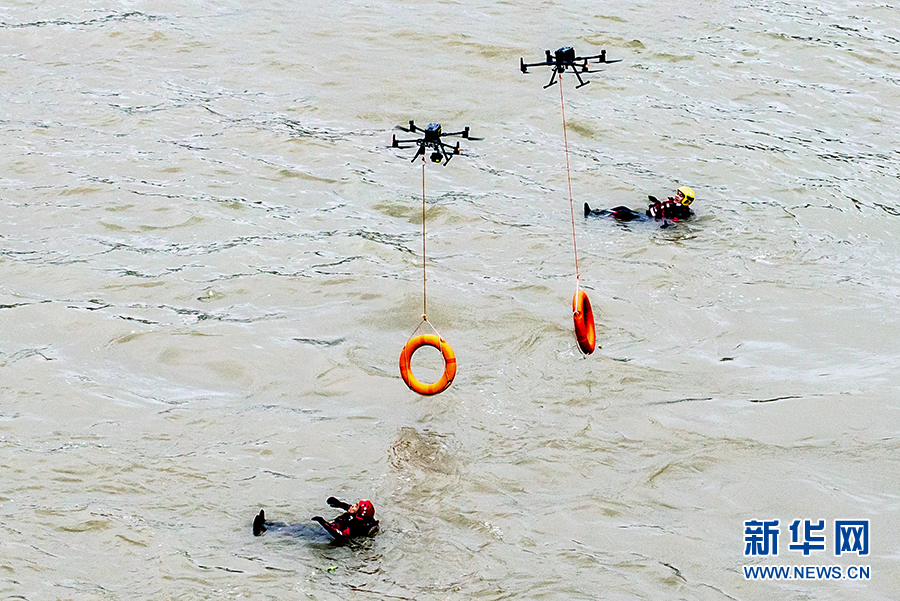
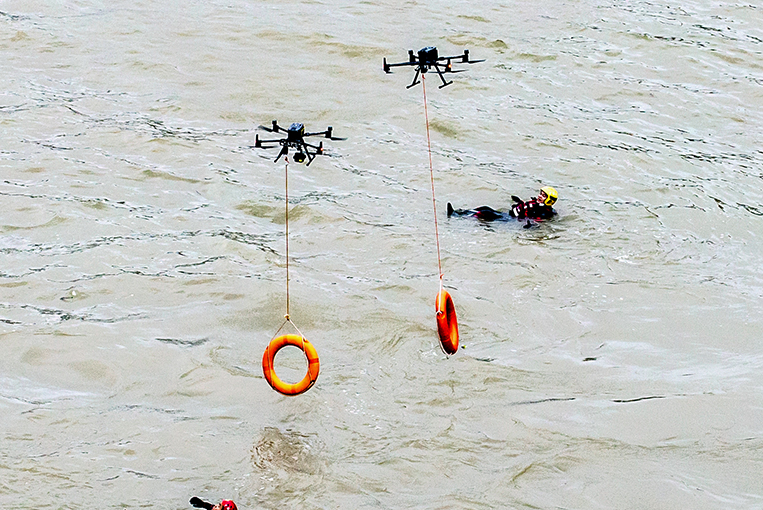
FIX | 针对预答辩的建议，对第一章和第五章进行了内容修改，适当减少了感知部分的内容，修改了未来展望的部分内容

diff --git a/body/graduate/content.tex b/body/graduate/content.tex
@@ -38,7 +38,7 @@
 
 在大尺度、复杂环境中，仅依靠单一机器人平台难以同时兼顾全局覆盖效率、局部操作能力与系统鲁棒性。空地协同系统通过将具备高视角与快速覆盖能力的 UAV 与具备高负载、可长时间驻留的 UGV 进行有机组合，使得“空地系统”在感知视角、运动能力与任务分工上形成互补，有望在灾后搜救、地下空间普查、工业园区巡检\cite{面向铁路巡检的低空无人机}等任务中显著提升作业效率与任务成功率\cite{collaborationsurvey,amigoni2017survey}。近年来，多机器人协同探索与地图构建方法不断涌现，多机同时覆盖未知区域、追踪动态目标或执行分布式监测任务已成为重要研究方向\cite{agexplore1,agexplore2,agmap1,agmap2,无人机环境覆盖与探索规划方法综述}，如\autoref{fig:explore_task}所示，多机器人系统能够在未知环境中协同完成环境探索和地图重建。
 
-实现复杂任务的前提在于可靠的状态估计与环境感知。空地系统中，常用传感器包括激光雷达、视觉相机、惯性测量单元（IMU）以及超宽带（Ultra-Wideband, UWB）\cite{UWB融合里程计}等，不同传感器在量测频率、精度、视场范围及安装载体的限制方面存在显著差异。\autoref{fig:loc_and_per}给出了典型传感器硬件示意图。高精度激光雷达可提供稠密三维结构信息，是构建环境几何地图的核心传感器\cite{zhang2014loam,xu2021fastlio,xu2022fastlio2}；视觉与视觉–惯性里程计在结构丰富场景中具备较好的定位精度与成本优势\cite{mourikis2007msckf,leutenegger2015okvis,qin2018vins,qin2019vinsfusion,campos2021orbslam3}；UWB 通过测距或时差观测可在 GPS 拒止环境中提供绝对尺度与弱全局约束\cite{uwbsurvey,queralta2020uwb,lin2023gnssuwb}。如何在异构多机器人系统中合理分配与融合多源传感信息，使其在不同平台间形成互补，是实现长期自主运行的关键问题。
+实现复杂任务的前提在于可靠的状态估计与环境感知。空地系统常用传感器包括激光雷达、视觉相机、IMU 及超宽带（Ultra-Wideband, UWB）\cite{UWB融合里程计}，但其量测频率、精度、视场与平台载荷约束差异显著，\autoref{fig:loc_and_per} 给出了典型硬件示意图：激光雷达可提供稠密三维结构信息，是构建几何地图的核心传感器\cite{zhang2014loam,xu2021fastlio,xu2022fastlio2}；视觉与视觉–惯性里程计在结构丰富场景中兼具精度与成本优势\cite{mourikis2007msckf,leutenegger2015okvis,qin2018vins,qin2019vinsfusion,campos2021orbslam3}；UWB 通过测距或时差观测在 GPS 拒止环境中提供绝对尺度与弱全局约束\cite{uwbsurvey,queralta2020uwb,lin2023gnssuwb}。在室内、地下或城市峡谷等 GPS 拒止/弱信号场景中，系统通常依赖激光雷达或视觉里程计构建局部地图，结合 IMU 等高频传感器进行状态估计，并通过回环检测与图优化维持长期一致性\cite{zhang2014loam,xu2021fastlio,xu2022fastlio2,shan2020liosam,kim2018scancontext,chang2022lamp2,cramariuc2022maplab2}；但当几何结构退化（如长走廊、空旷场地）、纹理不足或剧烈机动发生时，里程计易漂移甚至失效，而 UWB 的效果又高度依赖锚点布局与视线（Line-of-Sight, LoS）质量，非视距（Non-Line-of-Sight, NLoS）传播与多径效应会引入难以建模的系统误差\cite{uwbsurvey,zhao2022finding,delama2023uvio,jiang2024visionuwb}。因此，如何在异构多机器人系统中合理分配并融合多源信息，使不同平台间形成互补，是实现长期自主运行的关键问题。
 
 \begin{figure}[htbp]
     \centering
@@ -66,8 +66,6 @@
     \label{fig:loc_and_per}
 \end{figure}
 
-在实际应用中，多机器人系统往往工作在室内、地下或高遮挡的城市峡谷等 GPS 拒止或弱信号环境中，外部绝对定位信息不可用或质量不稳定。此时，系统通常依赖激光雷达或视觉里程计构建局部地图，结合 IMU 等高频传感器进行状态估计，并通过回环检测与图优化保持长期一致性\cite{zhang2014loam,xu2021fastlio,xu2022fastlio2,shan2020liosam,kim2018scancontext,chang2022lamp2,cramariuc2022maplab2}。然而，当环境几何结构退化（如长走廊、空旷场地）、视觉纹理不足或平台发生剧烈机动时，里程计易出现漂移甚至失效；UWB 虽能为系统提供一定测距约束，但其性能高度依赖锚点布局与视线（Line-of-Sight, LoS）质量，非视距（Non-Line-of-Sight, NLoS）传播和多径效应会引入难以建模的系统误差\cite{uwbsurvey,zhao2022finding,delama2023uvio,jiang2024visionuwb}。
-
 空地系统要在复杂未知环境中长期稳定运行，不仅需要具备精确、鲁棒的相对定位能力，还必须在任务执行过程中主动维护有利的观测几何关系，以提升 LoS 质量、抑制误差累积并保证队形结构的可观测性。现有方法多将定位与感知模块视为规划的“黑箱输入”，规划层仅采用基于距离或拓扑的简化连通模型描述机器人的协作关系，难以充分利用可见性、几何结构与传感覆盖等信息。如何在任务执行过程中将“感知-定位”与“协同规划”紧密耦合，使系统能够根据定位质量与可见性水平自适应调整协同策略，是实现空地系统安全、高效与持久运行的核心需求。
 
 \begin{figure}[htbp]
@@ -83,20 +81,13 @@
 
 针对多机器人系统的定位与协同规划问题，国内外已有大量研究工作。从整体上看，现有方法在传感器配置、信息融合架构及规划目标设计方面取得了显著进展，但普遍存在系统部署成本高、对预先标定与固定基础设施依赖强以及感知与规划之间耦合不足等问题。本节将分别从无人系统的定位与规划两个方面，对相关研究进展进行梳理与分析。
 
-\subsection{无人系统定位研究现状}
+\subsection{多机器人协同定位研究现状}
 
 在异构机器人系统中，依据平台载荷能力与任务需求配置不同传感器已成为普遍做法。空地协同场景下，轻载 UAV 通常配备视觉–惯性相机与 UWB 标签，实现机载感知与状态估计；UGV 或大型无人机则常搭载高线数激光雷达与计算平台，用于环境建图与全局状态估计\cite{zhang2014loam,xu2021fastlio,xu2022fastlio2,chang2022lamp2,cramariuc2022maplab2}。
 
-视觉或视觉–惯性里程计经历了从滤波式方法到优化式方法的发展。Mourikis 等人提出的 MSCKF\cite{mourikis2007msckf} 在滑动窗口扩展卡尔曼滤波（EKF）框架下实现了低延迟、低计算资源占用的 VIO；Leutenegger 等人的 OKVIS\cite{leutenegger2015okvis} 采用关键帧驱动的非线性优化，将 IMU 预积分与图像重投影残差紧耦合，显著提升了定位精度与稳健性；Qin 等人提出的 VINS-Mono\cite{qin2018vins} 和 VINS-Fusion\cite{qin2019vinsfusion} 通过鲁棒特征管理、在线外参与时间偏差标定以及多传感器融合，将 VIO 推广至长时运行与多场景部署；Campos 等人的 ORB-SLAM3\cite{campos2021orbslam3} 在统一框架下处理单目/双目/鱼眼及视觉–惯性组合，并引入多地图管理与重定位机制，提升了跨运动模式与长时间运行的稳定性。尽管上述方法在静态且纹理丰富环境中已能提供较高精度，但在低纹理、强光照变化或剧烈机动场景下，纯视觉或视觉–惯性里程计易退化并产生尺度漂移，对初始化、时间同步和外参标定均较为敏感。
+视觉或视觉–惯性里程计经历了从滤波式到优化式的发展：MSCKF\cite{mourikis2007msckf} 在滑动窗口 EKF 框架下实现低延迟、低算力的 VIO，OKVIS\cite{leutenegger2015okvis} 以关键帧非线性优化紧耦合 IMU 预积分与重投影残差，VINS-Mono\cite{qin2018vins} 与 VINS-Fusion\cite{qin2019vinsfusion} 通过鲁棒特征管理、在线标定与多传感器融合增强长时运行能力，ORB-SLAM3\cite{campos2021orbslam3} 则在统一框架下支持多相机模型与视觉–惯性组合并引入多地图与重定位机制；但在低纹理、强光照变化或剧烈机动条件下，这类方法仍易退化并产生尺度漂移，且对初始化、时间同步与外参标定较敏感。
 
-为缓解纯视觉方法的退化问题，部分研究引入 UWB 作为距离锚定信息。UWB 具有低成本、低功耗和较强的抗多径能力，被广泛用于 VIO/VSLAM 的尺度恢复与全局约束\cite{uwbsurvey,queralta2020uwb,lin2023gnssuwb}。Queralta 等人\cite{queralta2020uwb} 在 GPS 拒止场景下构建 UWB 数据集，验证了单/多点测距可为无人机导航提供厘米至分米级定位结果；Lin 等人\cite{lin2023gnssuwb} 在室内环境中表明，引入 UWB 测距可显著提升 VIO 的精度与鲁棒性。围绕锚点布局和量测质量，Zhao 等人\cite{zhao2022finding} 提出基于 TDoA 的锚点几何优化准则；Delama 等人的 UVIO 框架\cite{delama2023uvio} 在锚点标定存在偏置的情况下，通过偏置补偿与紧耦合建模稳定引入 UWB 距离约束。Nguyen 等人\cite{nguyen2021range} 与 Li 等人\cite{li2024uwbvio_fg} 分别在滤波与因子图框架下，以“测距为中心”对相机、IMU 与 UWB 进行紧耦合建模，利用 UWB 提供绝对尺度与弱全局约束抑制单目尺度漂移。Jiang 等人\cite{jiang2024visionuwb} 与 Li 等人\cite{li2024uvioakf} 进一步引入 LoS/NLoS 判别与自适应权重调整，提高了在遮挡与多径条件下的鲁棒性。但总体来看，这类方法仍依赖预先部署且相对静态的 UWB 锚点，难以适应任务空间动态变化和复杂遮挡环境。
-
-激光雷达在结构化与半结构化场景中具有稳定的感知性能，其里程计与建图方法已较为成熟。Zhang 等人提出的 LOAM\cite{zhang2014loam} 将里程计与建图相互解耦，利用角点与面点约束实现高精度实时定位；Xu 等人的 FAST-LIO 框架\cite{xu2021fastlio} 采用紧耦合 ESKF 将 LiDAR 特征与 IMU 融合，在快速机动和噪声环境下实现了高频、稳健的里程计估计，随后提出的 FAST-LIO2\cite{xu2022fastlio2} 进一步避免显式特征提取，引入增量式 iKD-Tree 实现高效建图。Shan 等人的 LIO-SAM\cite{shan2020liosam} 则在因子图框架下统一 IMU 预积分、LiDAR 残差与回环检测，并结合 Scan Context\cite{kim2018scancontext} 实现了大范围环境下的鲁棒重定位与地图优化。尽管 LiDAR-SLAM 在多数场景中表现优异，但当视场内几何约束不足（如近似共面、共线或远距离稀疏回波）时，系统仍可能出现退化，需要引入回环闭环或外源约束缓解漂移\cite{chang2022lamp2,cramariuc2022maplab2}。
-
-在应对几何退化与长时一致性问题方面，LiDAR-SLAM 与 UWB 融合被证明是一条有效路径。Park 等人提出的 LIRO\cite{liro2021} 将 UWB 测距与 LiDAR–IMU 紧耦合于里程计前端，在滑动窗口内联合最小化点云几何与测距残差，以增强走廊与空旷场景的可观测性；Nguyen 等人的 VIRAL-SLAM\cite{viral2021} 在因子图框架内统一相机、IMU、LiDAR 与 UWB 的两阶段紧耦合建模，并结合回环与全局图优化显著降低了极端光照或结构稀疏条件下的漂移。更早的协作式方法\cite{uwb_lidar_coop_slam2012} 已从实验层面验证了使用 UWB 测距锚定进行几何匹配在多机相对定位与地图对齐上的可行性。
-
-在多机器人与异构协同场景中，VIO与UWB 等组合方法进一步展示了“地面–空中”信息互补的潜力。Quer
-alta 等人\cite{queralta2022vio} 通过协同视觉–惯性–UWB 方案实现了多平台间的相对定位与环境重建；Zhang 等人\cite{zhang2022anchorfree} 提出锚点自由的 UWB/INS 相对定位方法，降低了对固定基础设施的依赖；Papadimitriou 等人\cite{papadimitriou2022rangeaid} 在协作位姿估计中引入“距辅助”的多机器人相对位姿图建模。针对空中集群，Xu 等人\cite{xu2022omni} 提出去中心化的全向视觉–惯性–UWB 状态估计系统，并在后续工作中发展为面向空中集群的分布式 LIO 方案 Swarm-LIO/Swarm-LIO2\cite{zhu2022swarmlio,zhu2024swarmlio2}，如\autoref{fig:swarm-lio2}所示，各无人机在本体上执行高精度自定位，并通过目标检测、跨机轨迹匹配与因子图优化实现协作约束融合，展示了分布式 VIO/LIO–UWB 融合在大规模系统中的可扩展性。
+为缓解退化并引入绝对尺度，UWB 常作为距离锚定信息用于 VIO/VSLAM 的尺度恢复与全局约束\cite{uwbsurvey,queralta2020uwb,lin2023gnssuwb}：Queralta 等\cite{queralta2020uwb} 在 GPS 拒止场景构建数据集并验证单/多点测距可支撑厘米至分米级定位，Lin 等\cite{lin2023gnssuwb} 进一步表明室内引入 UWB 测距可显著提升 VIO 精度与鲁棒性；围绕锚点布局与量测质量，Zhao 等\cite{zhao2022finding} 提出基于 TDoA 的几何优化准则，UVIO\cite{delama2023uvio} 通过偏置补偿与紧耦合建模稳定引入测距约束，Nguyen 等\cite{nguyen2021range} 与 Li 等\cite{li2024uwbvio_fg} 分别在滤波与因子图框架下以“测距为中心”紧耦合相机、IMU 与 UWB，并进一步结合 LoS/NLoS 判别与自适应加权提升遮挡与多径条件下的鲁棒性\cite{jiang2024visionuwb,li2024uvioakf}。另一方面，激光雷达在结构化/半结构化环境中具备稳定几何观测，LOAM\cite{zhang2014loam}、FAST-LIO\cite{xu2021fastlio} 与 FAST-LIO2\cite{xu2022fastlio2} 等实现了高频稳健里程计与高效建图，LIO-SAM\cite{shan2020liosam} 在因子图中统一 IMU 预积分、LiDAR 残差与回环并结合 Scan Context\cite{kim2018scancontext} 支撑大范围重定位与地图优化；但在共面/共线或稀疏回波等几何约束不足时仍可能退化，需要回环或外源约束缓解漂移\cite{chang2022lamp2,cramariuc2022maplab2}。因此，LiDAR-SLAM 与 UWB 融合被认为是提升几何退化场景可观测性与长期一致性的有效路径：LIRO\cite{liro2021} 在滑动窗口内联合最小化点云几何与测距残差以增强走廊/空旷场景可观测性，VIRAL-SLAM\cite{viral2021} 在因子图内统一相机、IMU、LiDAR 与 UWB 的两阶段紧耦合并结合全局图优化降低极端条件下漂移，早期协作式研究亦验证了以 UWB 测距锚定辅助几何匹配实现多机相对定位与地图对齐的可行性\cite{uwb_lidar_coop_slam2012}。
 
 \begin{figure}[htbp]
     \centering
@@ -105,7 +96,8 @@ alta 等人\cite{queralta2022vio} 通过协同视觉–惯性–UWB 方案实现
     \label{fig:swarm-lio2}
 \end{figure}
 
-在更复杂的地下与灾害环境中，Chang 等人提出的 LAMP 2.0 框架\cite{chang2022lamp2} 面向异构多机器人给出了“可插拔前端与鲁棒后端”的多机 SLAM 方案，强调在通信受限与感知退化条件下的稳定性；Cramariuc 等人\cite{cramariuc2022maplab2} 的 maplab 2.0 以多模态、多会话和多机器人映射为目标，重构模块化接口，支持视觉–惯性与非视觉地标、语义目标的统一地图表达，为异构系统间地图互操作提供了研究平台。
+在多机器人与异构协同场景中，VIO与UWB 等组合方法进一步展示了“地面–空中”信息互补的潜力。Quer
+alta 等人\cite{queralta2022vio} 通过协同视觉–惯性–UWB 方案实现了多平台间的相对定位与环境重建；Zhang 等人\cite{zhang2022anchorfree} 提出锚点自由的 UWB/INS 相对定位方法，降低了对固定基础设施的依赖；Papadimitriou 等人\cite{papadimitriou2022rangeaid} 在协作位姿估计中引入“距辅助”的多机器人相对位姿图建模。针对空中集群，Xu 等人\cite{xu2022omni} 提出去中心化的全向视觉–惯性–UWB 状态估计系统，并在后续工作中发展为面向空中集群的分布式 LIO 方案 Swarm-LIO/Swarm-LIO2\cite{zhu2022swarmlio,zhu2024swarmlio2}，如\autoref{fig:swarm-lio2}所示，各无人机在本体上执行高精度自定位，并通过目标检测、跨机轨迹匹配与因子图优化实现协作约束融合，展示了分布式 VIO/LIO–UWB 融合在大规模系统中的可扩展性。在更复杂的地下与灾害环境中，Chang 等人提出的 LAMP 2.0 框架\cite{chang2022lamp2} 面向异构多机器人给出了“可插拔前端与鲁棒后端”的多机 SLAM 方案，强调在通信受限与感知退化条件下的稳定性；Cramariuc 等人\cite{cramariuc2022maplab2} 的 maplab 2.0 以多模态、多会话和多机器人映射为目标，重构模块化接口，支持视觉–惯性与非视觉地标、语义目标的统一地图表达，为异构系统间地图互操作提供了研究平台。
 
 综合上述研究可以发现，当前多机器人定位与感知技术在传感器融合与协同建图方面已经形成较为丰富的体系，但仍存在以下共性挑战：视觉与 VIO 在低纹理和强机动条件下易退化，UWB 性能受 LoS 与锚点布局显著制约，LiDAR 在弱几何场景中存在退化风险，多机场景中还叠加通信带宽与时延限制、跨平台时间同步与外参自标定的难题。更为关键的是，多数工作仍将定位与感知作为被动估计模块，缺少将可见性、几何可观测性等指标反馈至规划层统一建模的机制，难以在规划中主动维护有利的观测条件与 LoS 约束。
 
@@ -139,13 +131,15 @@ alta 等人\cite{queralta2022vio} 通过协同视觉–惯性–UWB 方案实现
 
 \section{论文主要研究内容}
 
-\subsection{研究内容与创新点}
+\subsection{现存问题与挑战}
 
 本文围绕未知、复杂环境下空地系统的相对定位与可见性驱动协同规划问题展开研究。现有工作一方面在定位与感知侧普遍假设机器人间始终具备良好的 LoS 条件，或依赖预先部署的静态 UWB 基站与高门槛的标定流程，对遮挡与多径等真实环境因素考虑不足；另一方面在规划侧多采用基于距离或拓扑的简化连通模型，未能将定位不确定性、可见性水平与传感覆盖等信息显式纳入规划目标与约束。由此导致在障碍密集和强遮挡场景中，系统难以同时维持足够的定位精度与协同效率。
 
 从定位与感知角度看，视觉/视觉–惯性及 LiDAR 里程计在低纹理、弱几何结构或强机动场景中容易退化，而 UWB 测距则受 NLoS 与锚点布局制约，产生难以校正的系统误差\cite{uwbsurvey,zhao2022finding,jiang2024visionuwb}。不少协同定位方案默认可以持续获得跨平台互观视野，却缺少对可见性与量测可用性的在线评估与补偿机制，一旦互观被遮挡或信道退化，误差便会难以及时抑制并逐步累积。从协同规划角度看，同构集群在覆盖、编队与探索任务方面已形成较为成熟的框架\cite{amigoni2017survey,agexplore1,agexplore2,agmap1,agmap2}，但多停留在顶层目标驱动与简化连通约束层面；对于异构空地系统，已有方法多采用固定角色分工与预定义协作流程，缺乏依据实时定位与感知状况进行动态重规划、会合调度与轨迹修正的能力。
 
-针对上述问题，本文面向具有多个 UGV 与单架 UAV 的空地系统，围绕“动态 UWB 支撑的相对定位”和“显式可见性约束的协同规划”两个核心环节开展研究，主要内容与创新点概括如下：
+\subsection{研究内容与创新点}
+
+针对当前研究遇到的诸多问题与挑战，本文面向具有多个 UGV 与单架 UAV 的空地系统，围绕“动态 UWB 支撑的相对定位”和“显式可见性约束的协同规划”两个核心环节开展研究，主要内容与创新点概括如下：
 
 \begin{itemize}
     \item \textbf{构建基于移动 UWB 基站的空地相对定位框架。}
@@ -177,7 +171,7 @@ alta 等人\cite{queralta2022vio} 通过协同视觉–惯性–UWB 方案实现
 
 第四章研究基于序列可视空间的两阶段空地协同规划架构。首先构建满足 UAV 动力学约束的引导路径及其对应的可视走廊表示，将通路周围的可见域以序列多面体形式表示；在此基础上，将原始协同规划问题分解为全局同步路径点生成与局部安全轨迹规划两个阶段，并引入“碰撞力”估计实现局部轨迹的自适应避障调整。通过仿真和实物试验对比分析两阶段架构与单阶段 NMPC 的性能差异，评估其在复杂环境中的求解效率与协同稳定性。
 
-第五章对全文工作进行总结与展望。总结本文在动态 UWB 支撑的空地相对定位、基于点云聚类的可见性驱动协同规划以及基于序列可视空间的两阶段规划架构等方面的主要贡献，分析当前工作的局限性，并对未来在多机器人协同感知与规划、动态任务分配以及更大规模异构系统应用等方面的研究方向进行展望。
+第五章对全文工作进行总结与展望。总结本文在动态 UWB 支撑的空地相对定位、基于点云聚类的可见性驱动协同规划以及基于序列可视空间的两阶段规划架构等方面的主要贡献，分析当前工作的局限性，并对未来在多机器人协同感知与规划与更大规模异构系统应用等方面的研究方向进行展望。
 
 \chapter{基于动态UWB基站的协同定位方法研究} \label{sec:UWB_loc_method}
 
@@ -2916,10 +2910,10 @@ J_o\) 的位置梯度由局部平面法向给出并按式~\eqref{eq:chain_rule_a
 
 \section{未来工作展望}
 
-尽管本文在空地协同定位与规划方面取得了一定进展，但受限于实验条件与理论假设，相关研究仍存在进一步深化与拓展的空间。首先，目前的规划框架主要采用集中式或半分布式架构，假设空地之间通信链路畅通且带宽满足需求，然而在实际大范围作业中，通信时延、丢包以及带宽限制不可忽略。未来的工作可以探索完全分布式的协同规划算法，结合一致性理论或分布式 ADMM 方法，仅依靠邻居间的局部信息交互实现全局协同，并将通信质量（如信号强度、误码率）显式纳入规划代价，实现“通信—感知—运动”的深度耦合。
+尽管本文在空地协同定位与规划方面取得了一定进展，但受限于实验条件与理论假设，仍有进一步深化与拓展的空间。
 
-其次，本文主要处理静态障碍物环境，对于移动障碍物（如行人、其他车辆）的处理主要依赖高频重规划进行被动规避，这在动态环境下的安全性略显不足。未来可引入对动态障碍物的轨迹预测模块，构建基于时空联合的避障约束，或者利用博弈论思想，研究多机器人与动态环境实体之间的交互式规划策略，提升系统在人机共存等高动态场景下的安全性和适应性。
+首先，本文的实验验证主要基于“一机四车”的小规模编队。随着任务复杂度提升及作业范围扩大，在更大规模的异构集群中，通信时延、丢包与带宽限制将与计算负载共同成为系统扩展的关键瓶颈。未来可面向规模化应用探索完全分布式协同规划架构，结合一致性理论或分布式 ADMM 等方法，仅依赖邻居间局部信息交互实现全局协同，在降低集中计算与通信压力的同时提升容错性与可扩展性，并进一步实现“通信—感知—运动”的协同优化。
 
-此外，本文的实验验证主要基于“一机四车”的小规模编队，随着任务复杂度的提升，系统可能需要扩展至更大规模的异构集群。在大规模集群下，如何设计可扩展的队形控制策略、降低计算复杂度以及解决高维状态空间下的优化求解问题是亟待解决的难点，未来可考虑引入分层控制架构或基于学习的群体策略，以提高系统对规模扩展的适应能力。
+其次，本文主要面向静态障碍物环境，并默认外部扰动与感知误差较小；但在真实应用中，风速等环境扰动以及定位误差会导致状态估计与执行轨迹偏差，从而影响规划解的可行性与安全裕度。未来需面向不确定系统开展随机优化与在线求解研究，将风场扰动、定位误差等不确定性显式纳入模型与约束设计，并发展满足实时性的策略，以提升实际场景下的可靠性与稳健性。
 
-最后，在定位方面，本文主要依赖 UWB 与 IMU 的融合并以激光 SLAM 地图为基准，但在强电磁干扰或长走廊等极端环境下，定位系统的鲁棒性仍面临挑战。未来可以研究融合视觉特征、语义信息以及多机间的相互观测约束，构建视觉-激光-惯性-UWB 全源紧耦合的协同定位系统，利用异构传感器的互补特性进一步提升系统在全天候、全场景下的状态估计精度与可靠性。
+最后，在定位方面，本文以 UWB–IMU 融合为主，并以激光 SLAM 地图作为全局参考；然而在强电磁干扰、长走廊等可观测性不足的极端场景下，系统鲁棒性仍有提升空间。未来可在现有框架基础上进一步融合视觉特征与语义信息，并引入多机相互观测约束，构建视觉–激光–惯性–UWB 的全源紧耦合协同定位框架，充分发挥异构传感器互补优势，从而提升复杂环境中的状态估计精度与可靠性。
